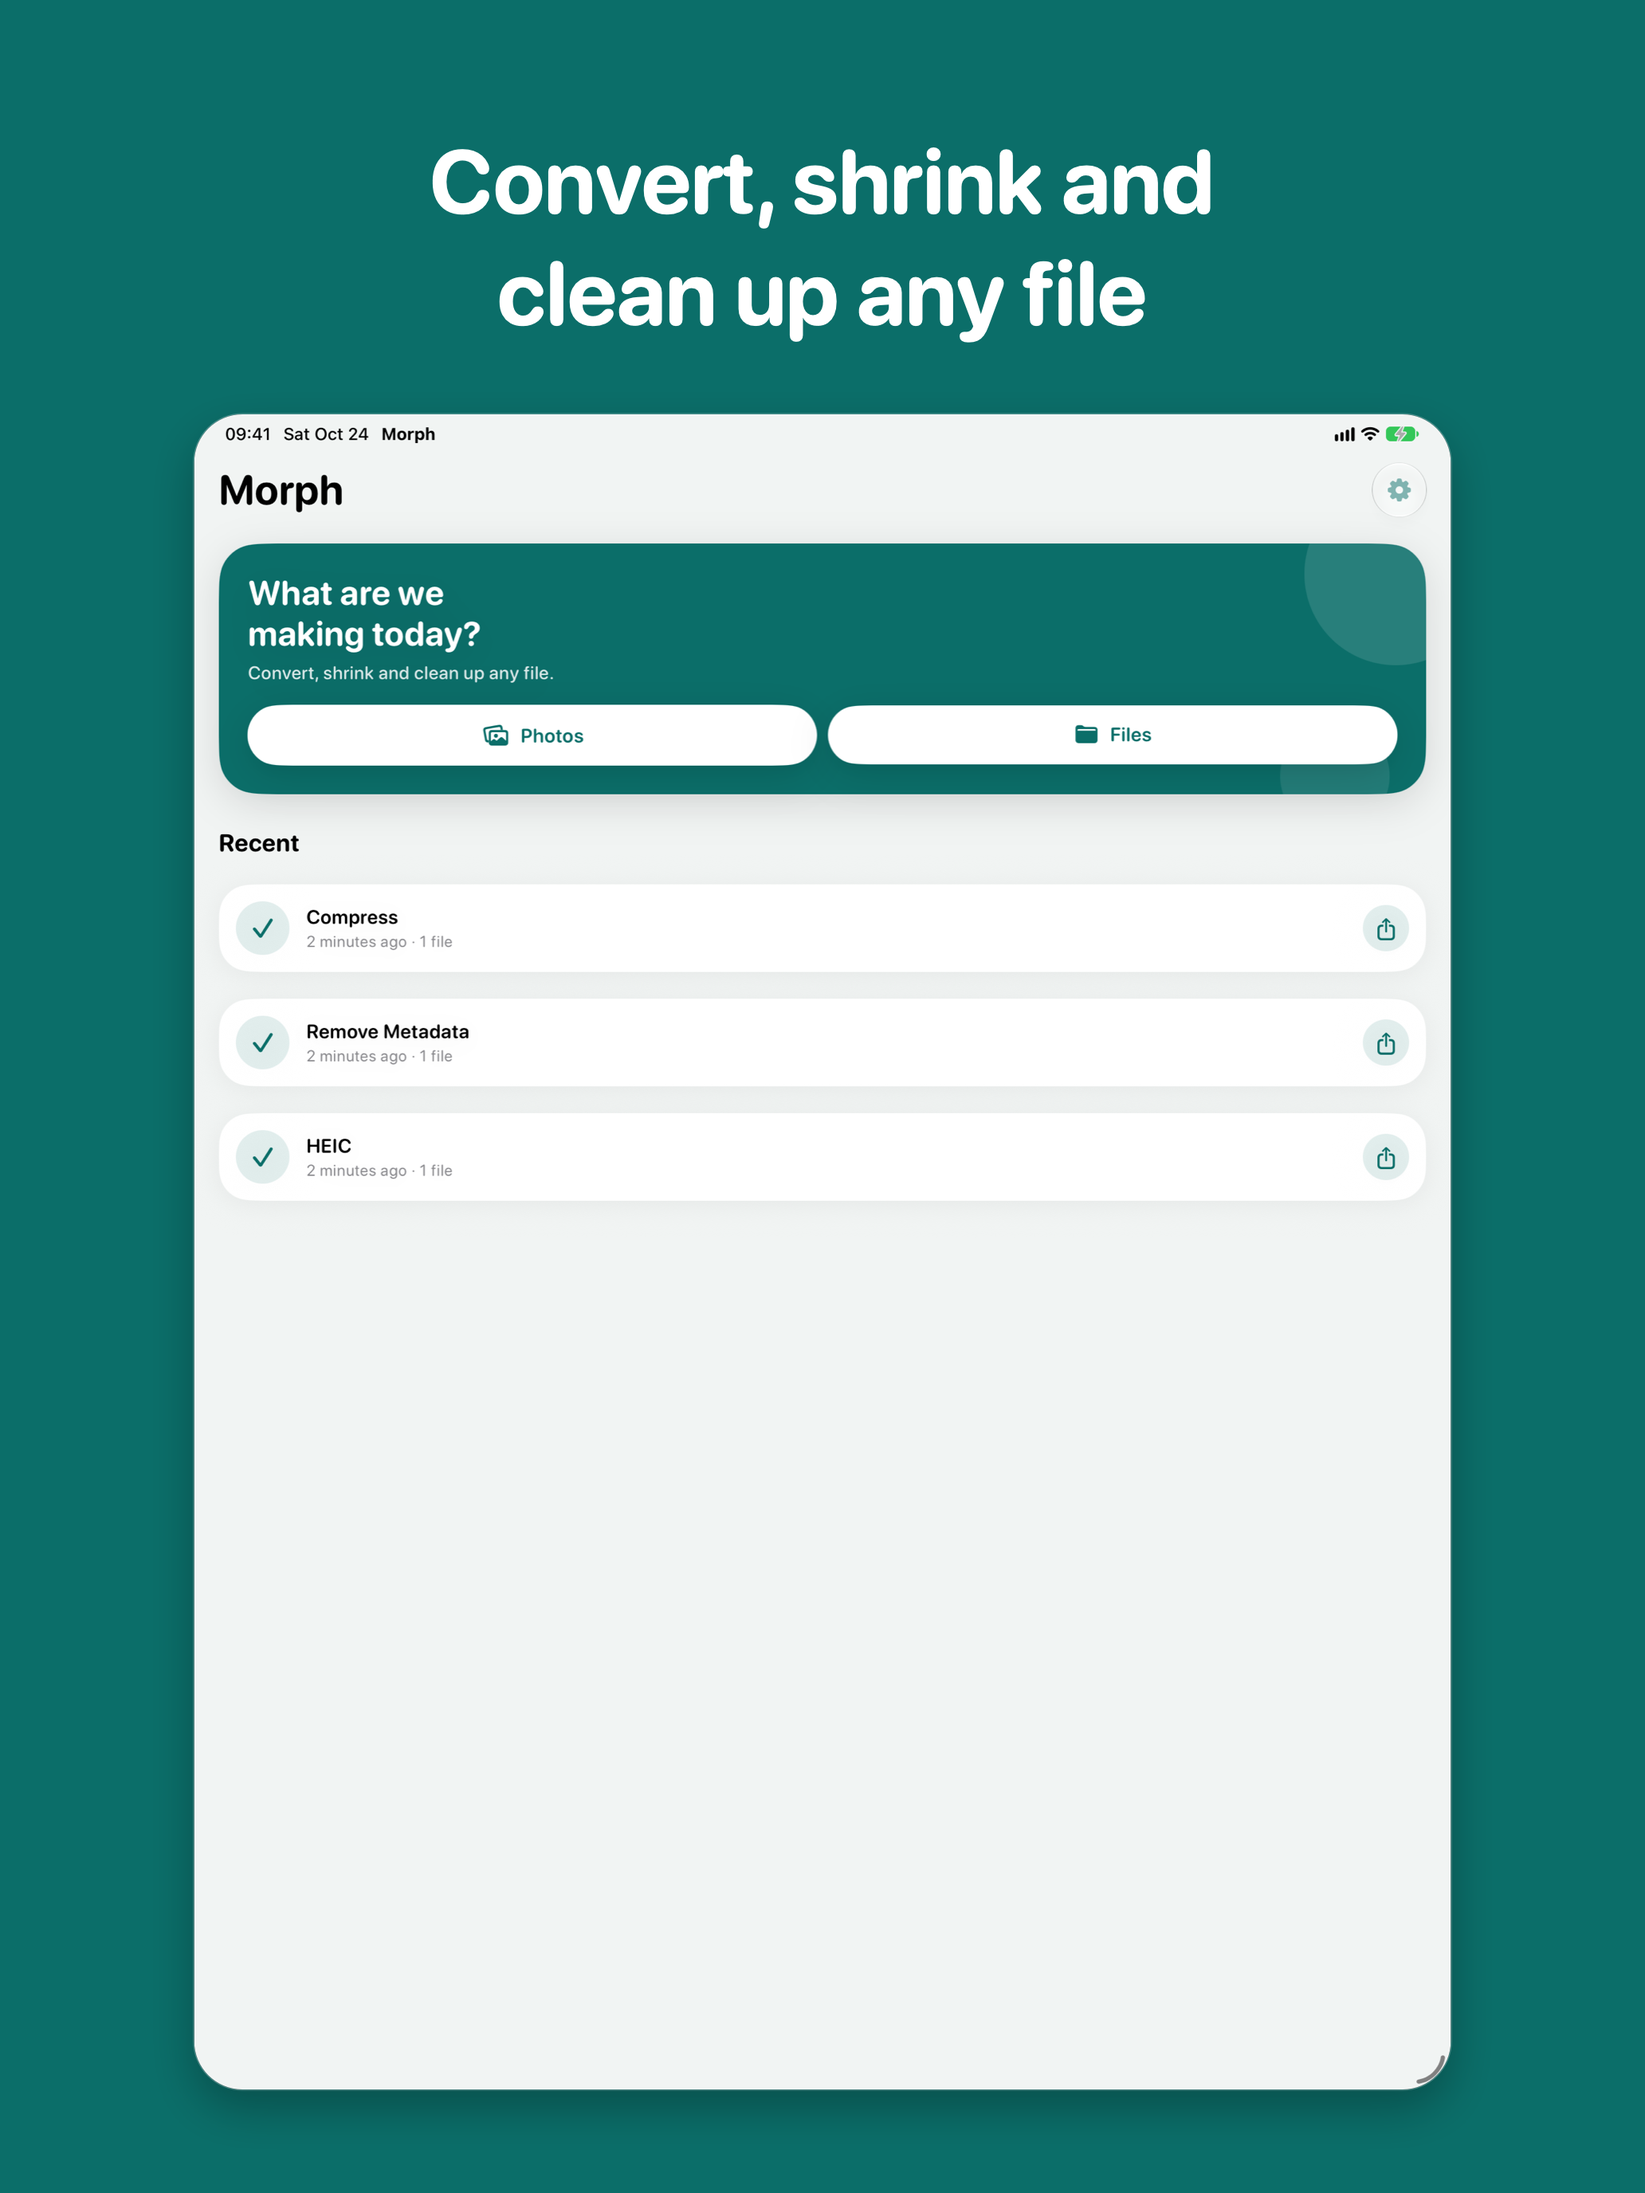
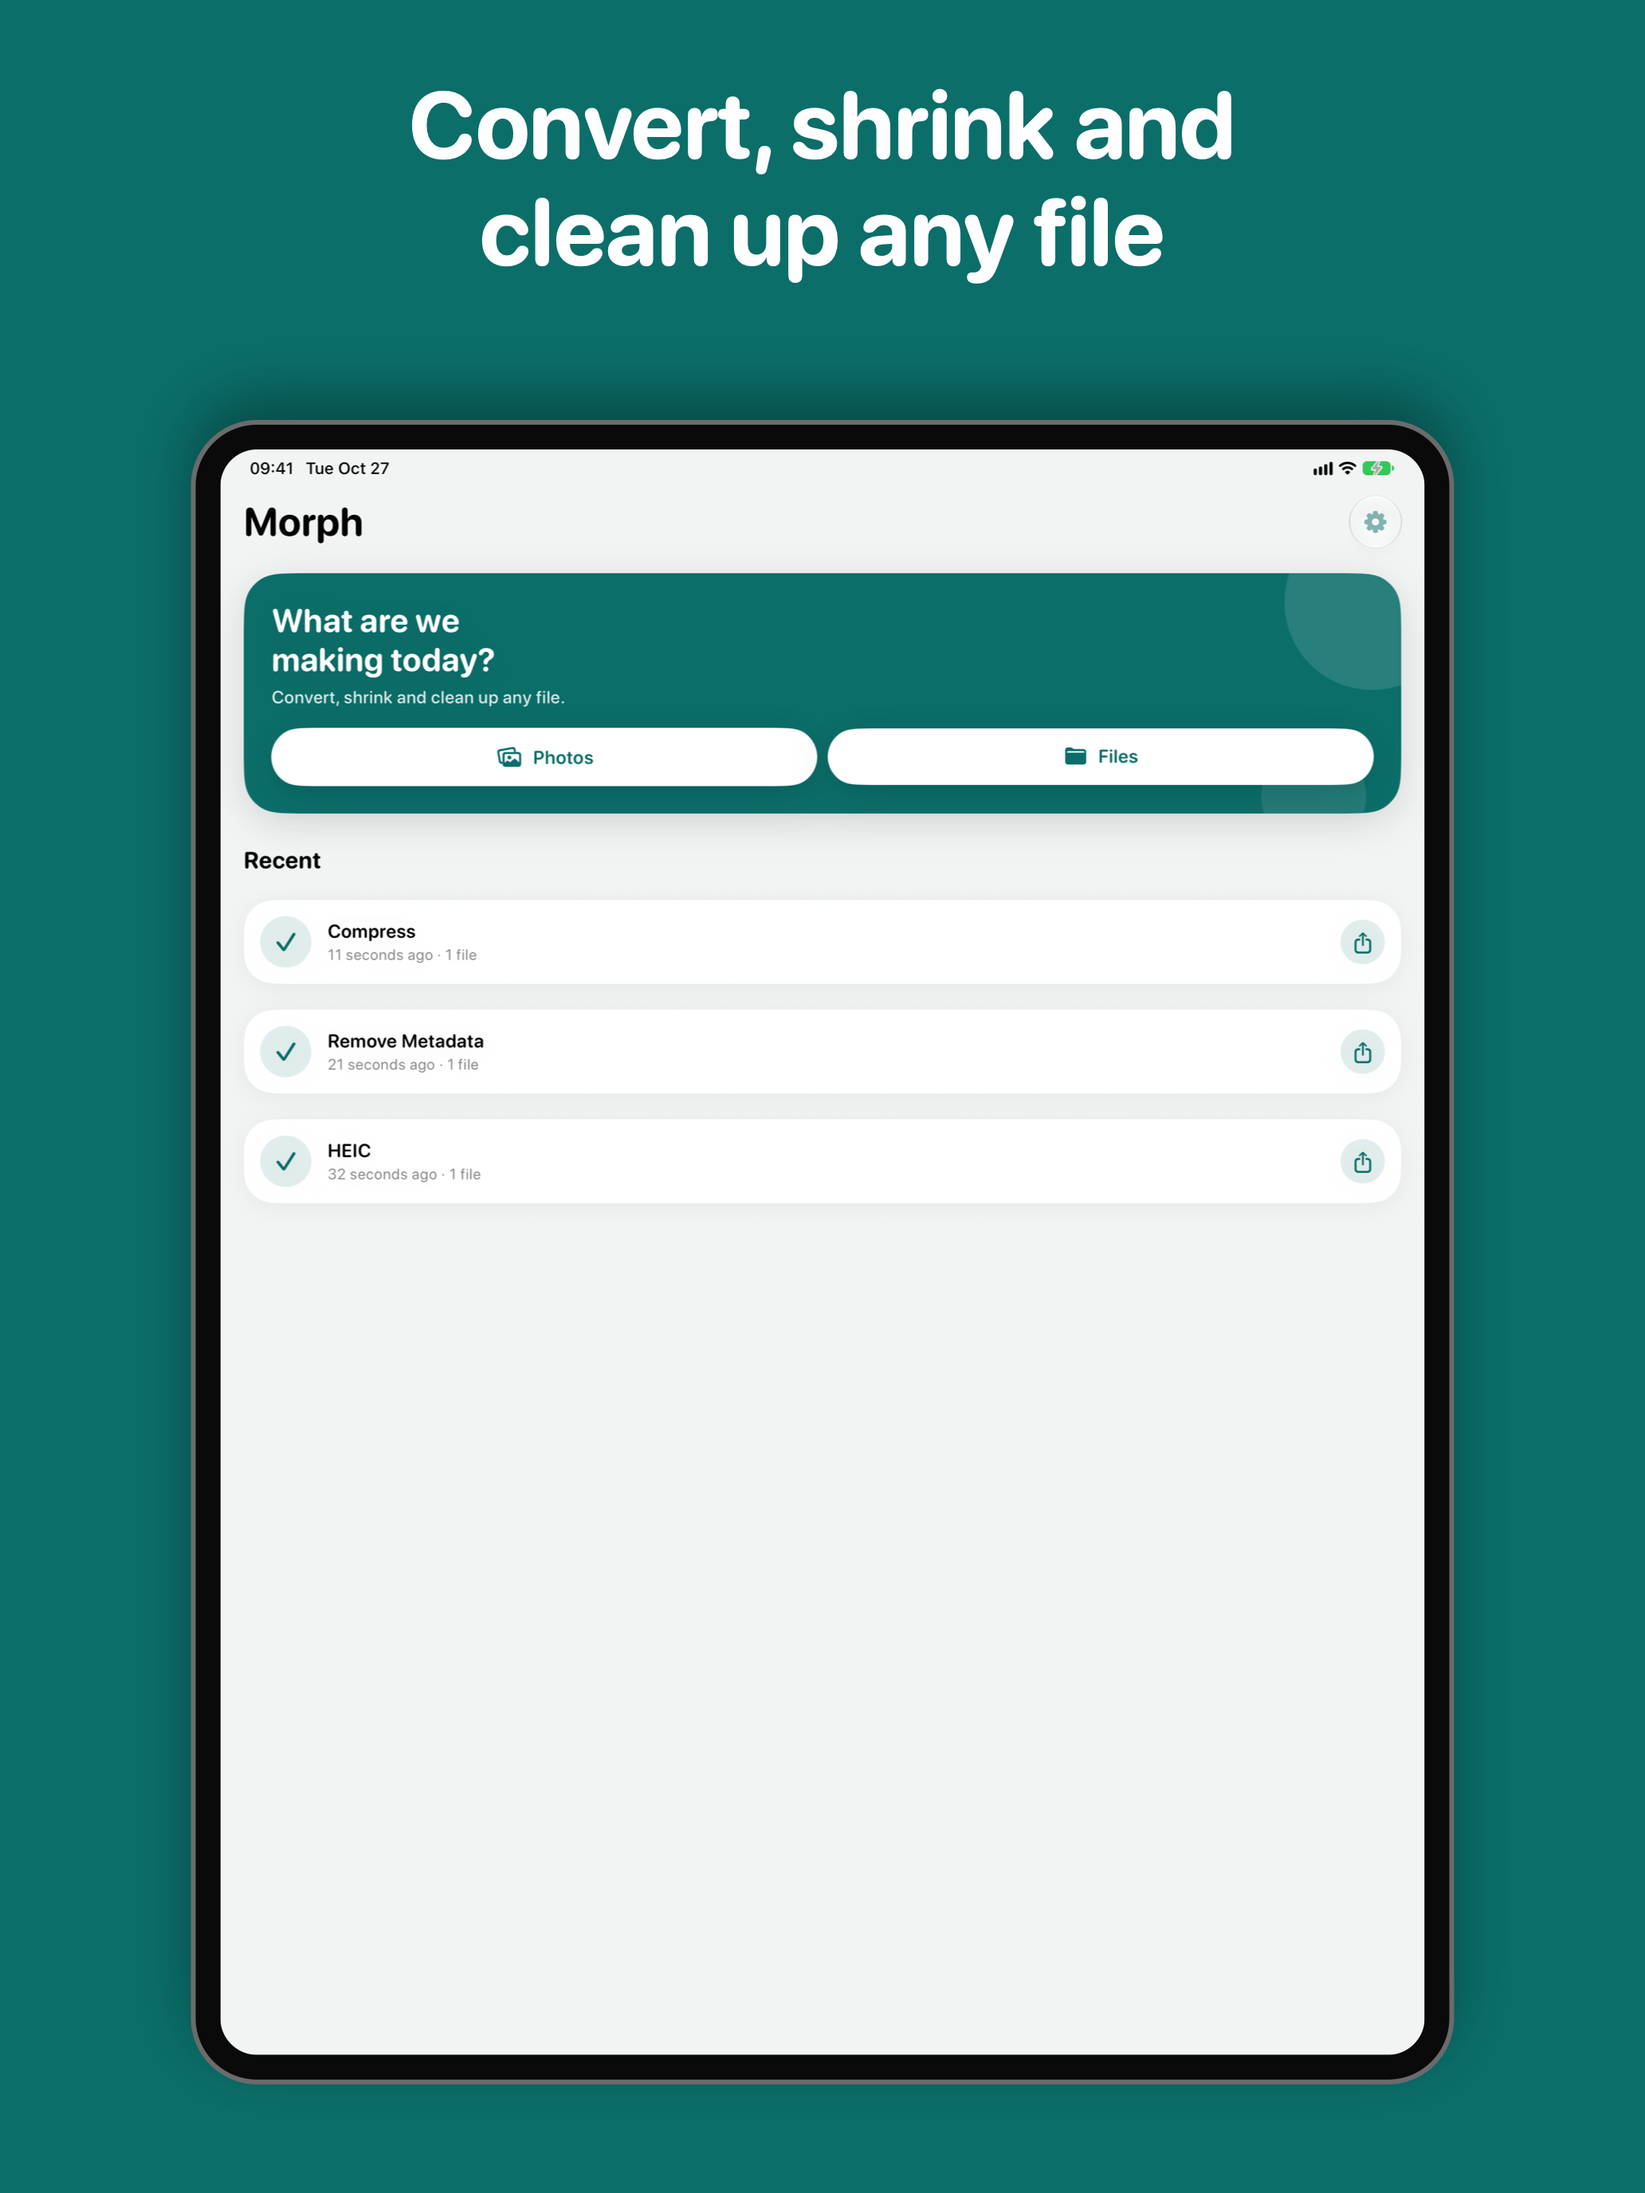
Ship iOS 1.0.0 to the App Store
Sets the paid developer team, adds ExportOptions.plist for App Store Connect, and replaces the screenshots: recaptured from the current build, iPhone frames with the Dynamic Island, and iPad shots in full screen instead of a window.

Changed region(s): [[0.093, 0.1875, 0.8992, 0.9688], [0.2481, 0.0312, 0.7442, 0.1562], [0.2171, 0.5312, 0.2481, 0.5625]]

diff --git a/ios/README.md b/ios/README.md
@@ -33,6 +33,8 @@ Press and hold the app icon for **Convert Photos** and **Choose Files**.
 
 The app is set up for App Store review: a privacy manifest (`Morph/PrivacyInfo.xcprivacy`, no data collected), `ITSAppUsesNonExemptEncryption` set to `NO`, an opaque 1024 px icon, and Privacy and Help links in Settings. The listing text, screenshots and review notes are in [`marketing/app-store.md`](../marketing/app-store.md).
 
+The project uses the Geetansh Goyal developer team (`675A56FHGZ`) with automatic signing. `ExportOptions.plist` selects App Store Connect distribution for this team and exports an IPA locally without uploading it. Distribution signing still requires a valid Apple Distribution certificate and App Store provisioning profile.
+
 ## Build
 
 The Xcode project is generated from `project.yml` with [XcodeGen](https://github.com/yonaskolb/XcodeGen):
